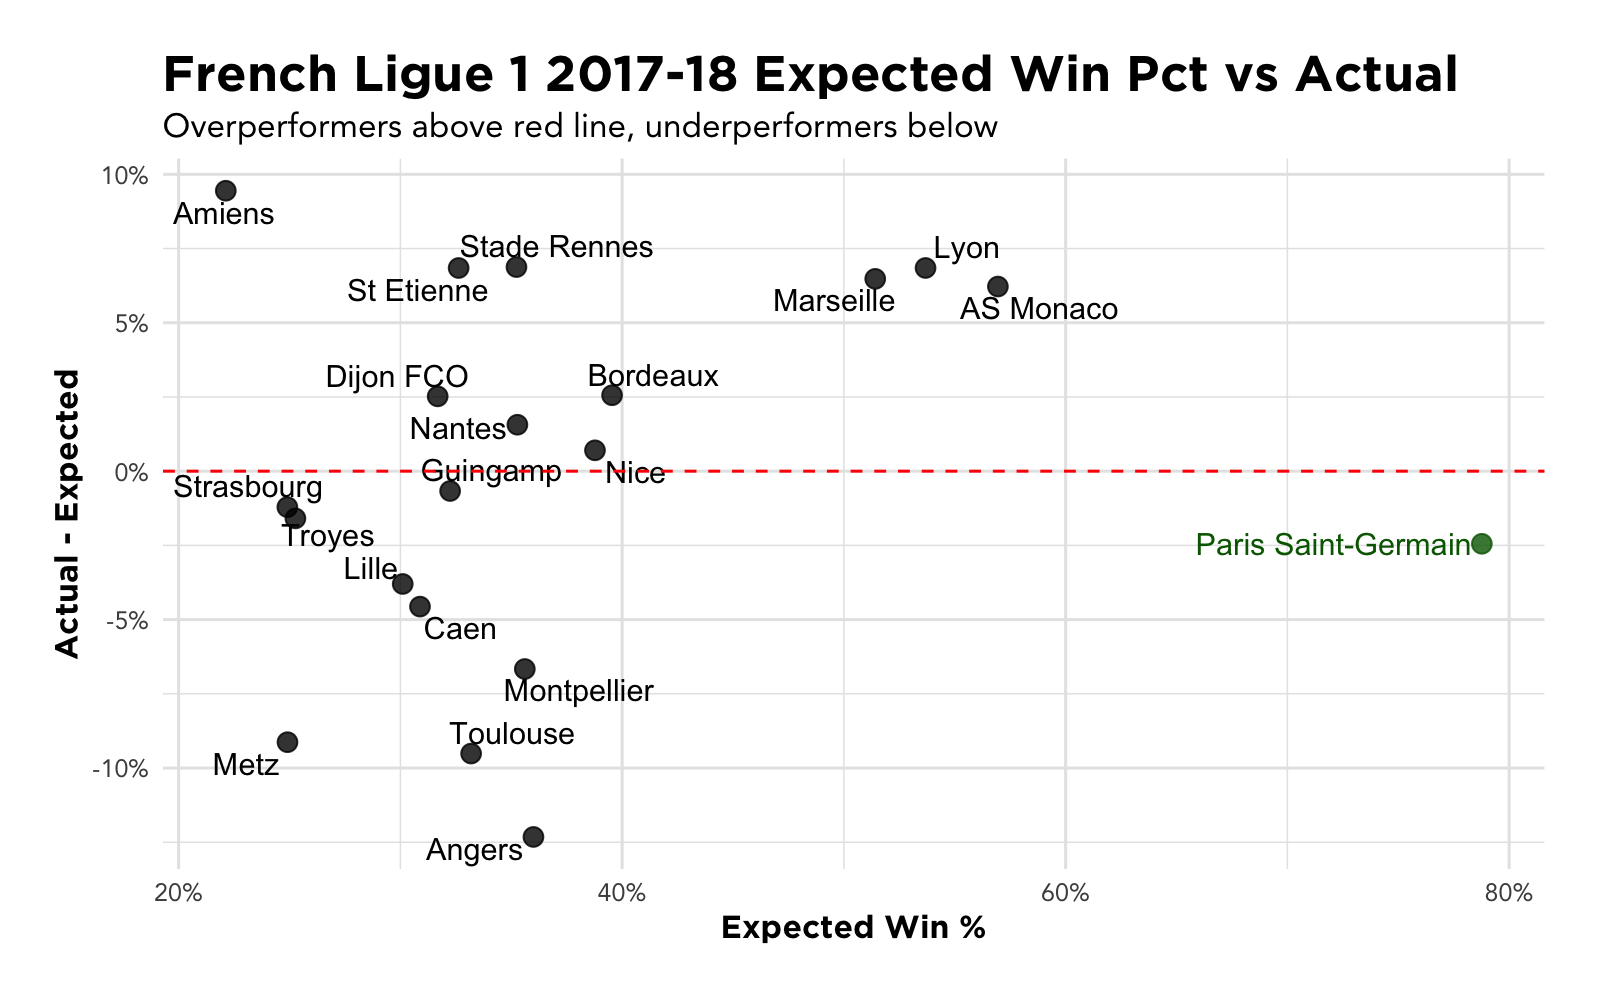
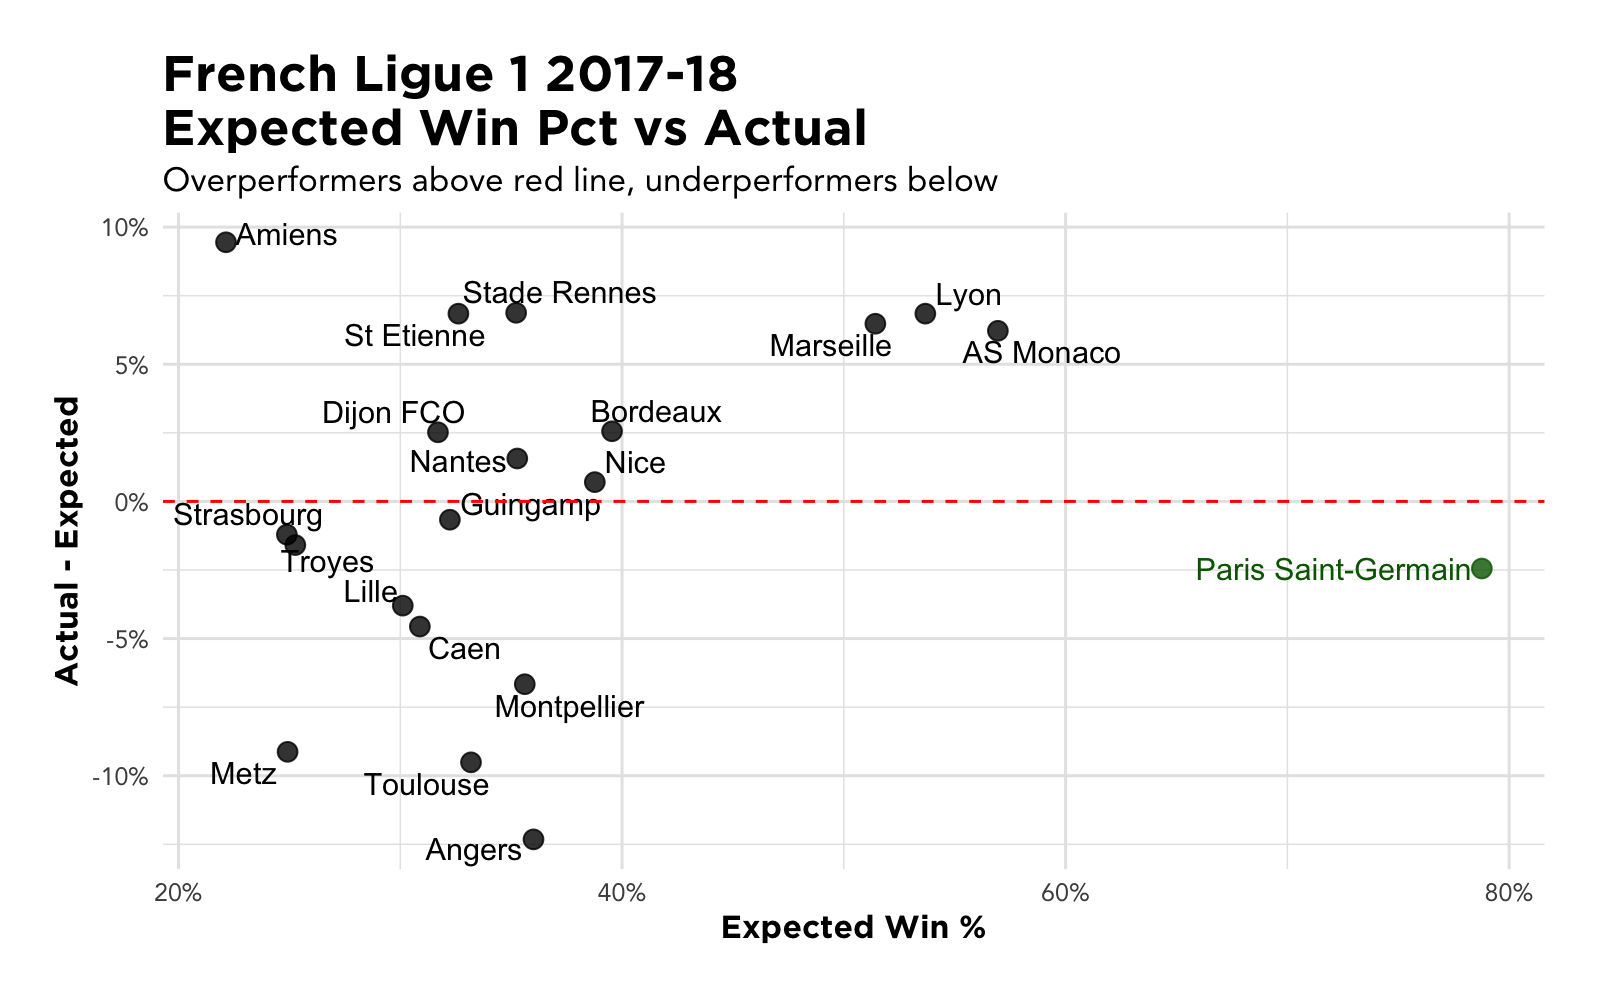
tweaking graphs and adding ideas

diff --git a/doc/matches.md b/doc/matches.md
@@ -380,7 +380,7 @@ matches_past %>%
   theme_expapp() +
   scale_x_continuous(labels = scales::percent, name = "Actual Win % minus expected win %") +
   ylab("Count of League Seasons") +
-  ggtitle("Difference between Actual Home Win % and Expected", "By season, by league")
+  ggtitle("Difference between Actual Home Win % and Expected test", "By season, by league")
 ```
 
 ![plot of chunk unnamed-chunk-8](../graphs/matches//unnamed-chunk-8-1.png)
@@ -412,7 +412,7 @@ for (l in unique(league_seson_df$league_season)) {
     theme_expapp() +
     scale_x_continuous(labels = scales::percent, name = "Expected Win %") +
     scale_y_continuous(labels = scales::percent, name = "Actual - Expected") +
-    ggtitle(paste(l, "Expected Win Pct vs Actual"), "Overperformers above red line, underperformers below")
+    ggtitle(paste(l, "\nExpected Win Pct vs Actual"), "Overperformers above red line, underperformers below")
   
   print(perf_plot)
   
@@ -423,8 +423,9 @@ for (l in unique(league_seson_df$league_season)) {
 
 
 ## Analysis Ideas
-- Predicting promotion and relegation
-- Classifying which games were played in neutral venues
-- Overperformers and underperformers
-- Predicting winners
-- How does time between previous game affect team performance?
+- Predicting promotion and relegation [ ]
+- Classifying which games were played in neutral venues [ ]
+- Lucky and unlcuck (expected record from goal diff vs actual record) [ ]
+- Overperformers and underperformers [x]
+- Predicting winners [ ]
+- How does time between previous game affect team performance? [ ]
